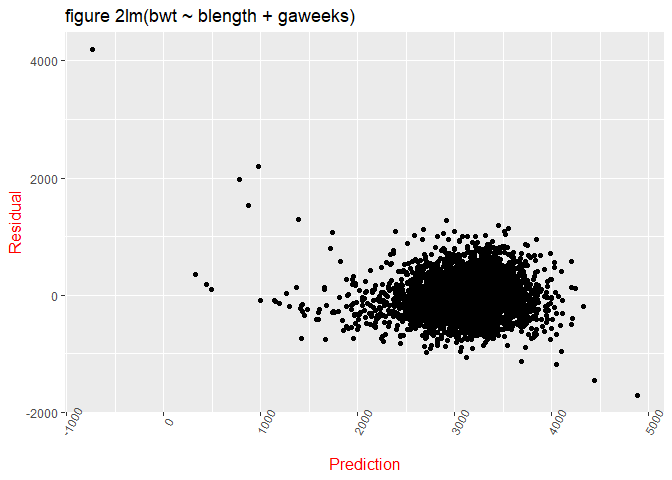
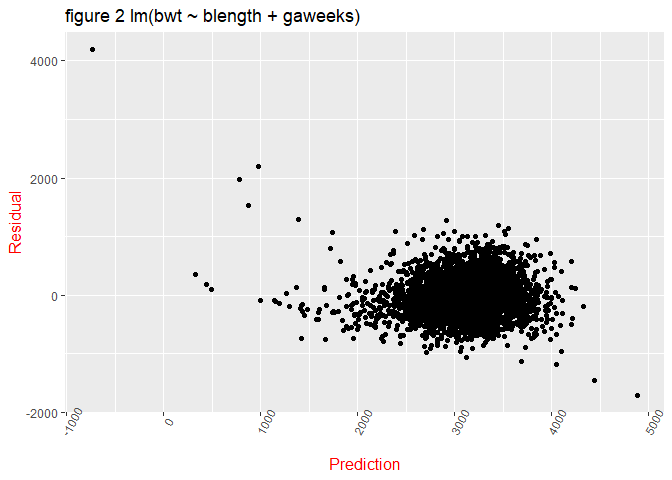
finish the estimate distribution plot

Changed region(s): [[0.1875, 0.0, 0.5312, 0.0625]]

diff --git a/p8105_hw6_yh2736.md b/p8105_hw6_yh2736.md
@@ -145,7 +145,7 @@ birth_weight_dataset %>%
     axis.text.x = element_text(angle = 60)
   ) +
   labs(
-    title = "figure 2lm(bwt ~ blength + gaweeks) "
+    title = "figure 2 lm(bwt ~ blength + gaweeks) "
   )
 ```
 
@@ -206,7 +206,106 @@ cv_birth_weight %>%
     names_prefix = "rmse_"
   ) %>% 
   ggplot(aes(x = model, y = rmse)) +
-  geom_violin()
+  geom_violin() +
+  xlab("Linear Models") +
+  ylab("RMSE") +
+  theme(
+    axis.title.x = element_text(size = 12, 
+                                color = "red"),
+    axis.title.y = element_text(size = 12, 
+                                color = "red"),
+    axis.text.x = element_text(angle = 60)
+  ) +
+  labs(
+    title = "figure 4 RMSE of three differen linear models "
+  )
 ```
 
 ![](p8105_hw6_yh2736_files/figure-gfm/unnamed-chunk-6-1.png)<!-- -->
+
+# problem 3
+
+``` r
+###download the data
+weather_df = 
+  rnoaa::meteo_pull_monitors(
+    c("USW00094728"),
+    var = c("PRCP", "TMIN", "TMAX"), 
+    date_min = "2017-01-01",
+    date_max = "2017-12-31") %>%
+  mutate(
+    name = recode(id, USW00094728 = "CentralPark_NY"),
+    tmin = tmin / 10,
+    tmax = tmax / 10) %>%
+  select(name, id, everything())
+```
+
+``` r
+### Select variable "tmax" and "tmin" from the dataset
+weather_df <-  weather_df %>% 
+  select(tmax, tmin)
+
+### Draw bootstrap samples for 5000 times
+bootstrap_weather_df <- weather_df %>% 
+  modelr::bootstrap(n = 5000) %>% 
+  mutate(
+    result_list = map(strap, ~lm(tmax ~ tmin, data = .x)),
+    tidy_list = map(result_list, broom::tidy),
+    glance_list = map(result_list, broom::glance)
+  )
+```
+
+``` r
+###Pull beta0
+beta0_df <- bootstrap_weather_df %>% 
+  pull(tidy_list) %>% 
+  bind_rows() %>% 
+  select(term, estimate) %>% 
+  as_tibble() %>% 
+  filter(row_number() %% 2 != 0) %>% 
+  mutate(
+    id = c(1:5000),
+    beta0 = estimate
+  ) %>% 
+  select(id, beta0)
+
+###Pull beta1
+beta1_df <- bootstrap_weather_df %>% 
+  pull(tidy_list) %>% 
+  bind_rows() %>% 
+  select(term, estimate) %>% 
+  as_tibble() %>% 
+  filter(row_number() %% 2 == 0) %>% 
+  mutate(
+    id = c(1:5000),
+    beta1 = estimate
+  ) %>% 
+  select(id, beta1)
+
+###combine beta0 and beta1 dataframe
+estimate_df <- left_join(beta0_df, beta1_df, by = "id")
+```
+
+``` r
+###Plot the distribution of estimates
+estimate_df %>% 
+  ggplot(aes(x = beta0, y = beta1)) +
+  geom_point(alpha = 0.5) +
+  xlab("Beta0") +
+  ylab("Beta1") +
+  theme(
+    axis.title.x = element_text(size = 12, 
+                                color = "red"),
+    axis.title.y = element_text(size = 12, 
+                                color = "red"),
+    axis.text.x = element_text(angle = 60)
+  ) +
+  labs(
+    title = "figure 5 Estimates distribution "
+  )
+```
+
+![](p8105_hw6_yh2736_files/figure-gfm/unnamed-chunk-10-1.png)<!-- -->
+
+*From Figure 5, the range of beta0 is from 6.25 to 8.25, and the range
+of beta1 is (0.975, 1.100)*
